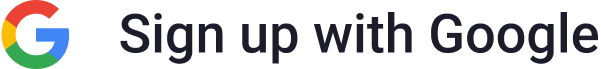
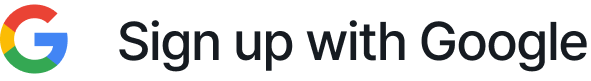
style: Update font style for login button

diff --git a/src/components/auth/GoogleLogin.tsx b/src/components/auth/GoogleLogin.tsx
@@ -101,12 +101,12 @@ const styles = StyleSheet.create({
     borderColor: '#CCD4DD',
   },
   logoImage: {
-    width: 184,
-    height: 23,
+    width: 176,
+    height: 27,
   },
   logoImageEn: {
-    width: 200,
-    height: 23,
+    width: 197,
+    height: 27,
   },
   logoText: {
     color: '#000',

diff --git a/src/components/auth/AppleLogin.tsx b/src/components/auth/AppleLogin.tsx
@@ -108,12 +108,12 @@ const styles = StyleSheet.create({
     borderRadius: 100,
   },
   logoImage: {
-    width: 168,
-    height: 23,
+    width: 162,
+    height: 27,
   },
   logoImageEn: {
-    width: 180,
-    height: 23,
+    width: 182,
+    height: 27,
   },
   logoText: {
     color: '#fff',
